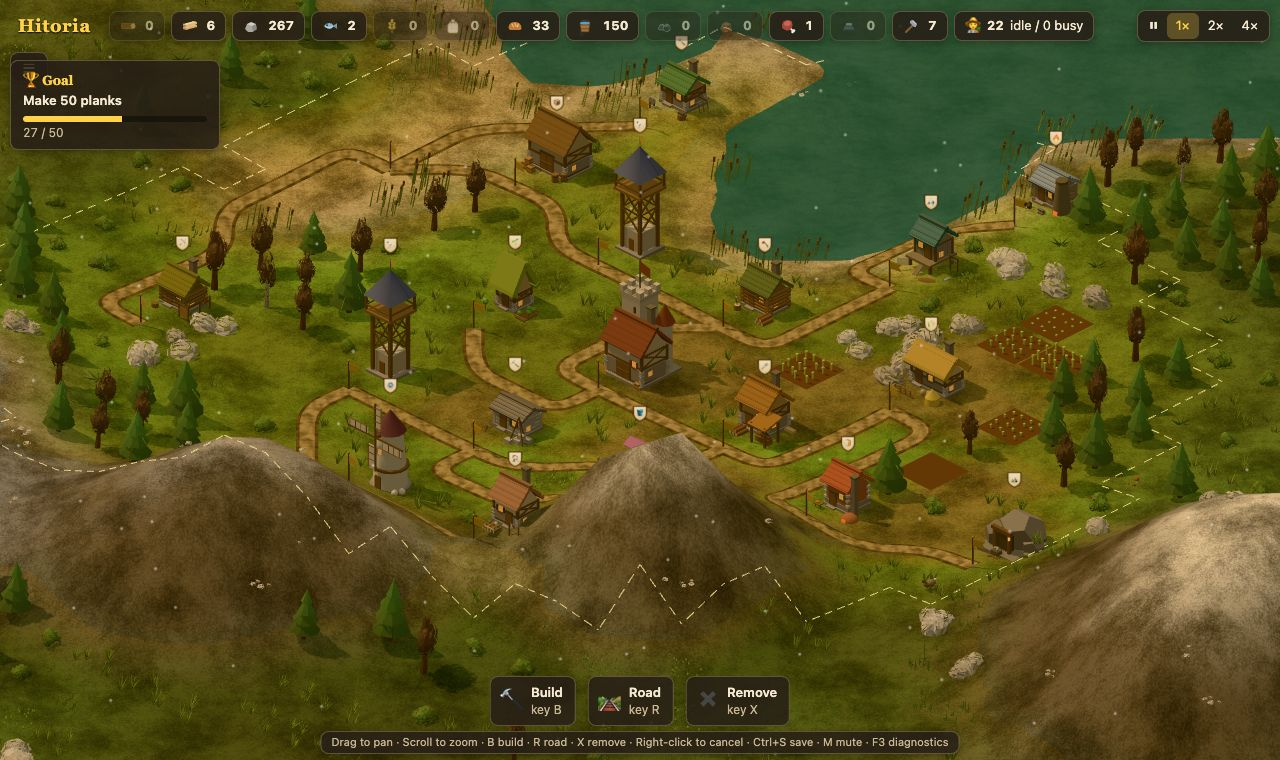
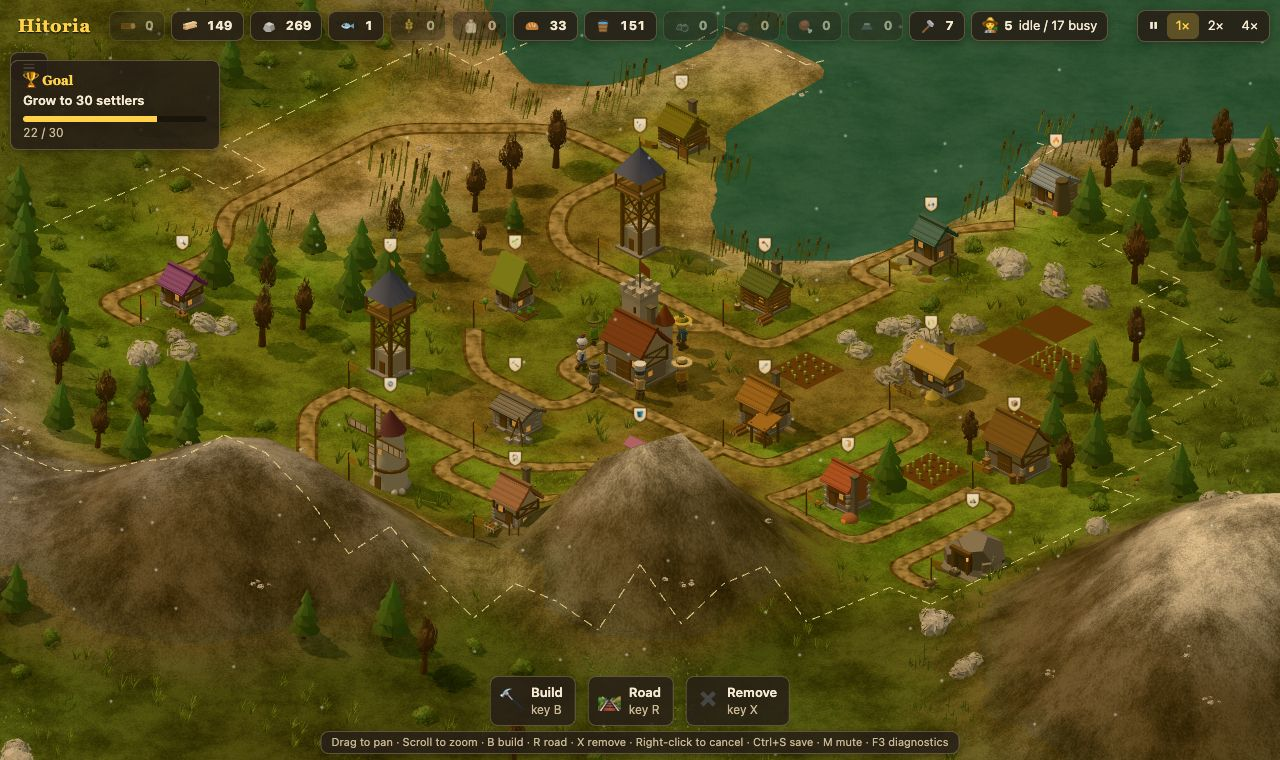
Geologist: rich spots make mines dig twice as fast, and a geologist marks them with signs
Some mountain tiles are now rich spots, laid down from the seed. A mine
next to one digs twice as fast. The new Geologist's Hut goes near a
mountain. Its geologist surveys the mountain tiles within 6 tiles and
puts up a sign on each: gold for a rich spot, pale for plain rock, with
lumps that show stone or coal and iron ore. Signs are saved.

diff --git a/scripts/readme/village.ts b/scripts/readme/village.ts
@@ -9,7 +9,7 @@ export const SEED = 214;
 // widen the land, so the second round has room.
 const ROUNDS: BType[][] = [
   ['woodcutter', 'forester', 'sawmill', 'quarry', 'lookout', 'lookout'],
-  ['fisher', 'farm', 'well', 'mill', 'bakery', 'house', 'storehouse', 'mine', 'hunter', 'smelter', 'toolmaker', 'woodcutter', 'house'],
+  ['fisher', 'farm', 'well', 'mill', 'bakery', 'house', 'storehouse', 'mine', 'geologist', 'hunter', 'smelter', 'toolmaker', 'woodcutter', 'house'],
 ];
 const RADIUS = 9; // how far from the HQ to look for a spot
 const GAP = 2; // free tiles to keep between buildings, so each one is easy to see

diff --git a/README.md b/README.md
@@ -4,7 +4,7 @@ A peaceful 2.5D settlement builder for the browser, inspired by *The Settlers*.
 
 **Play it in your browser:** https://koszcz.github.io/hitoria/
 
-![A village around the HQ keep, beside a bay and below a mountain: huts, a farm with its fields of grain, a windmill, two lookout towers, a hunter's lodge, a smelter, a toolmaker's workshop and a stone mine, all joined by roads. It is early winter, so the first snow falls and the leafy trees are bare. The current goal shows at the top left](docs/screenshot.jpg)
+![A village around the HQ keep, beside a bay and below a mountain: huts, a farm with its fields of grain, a windmill, two lookout towers, a hunter's lodge, a geologist's hut, a smelter, a toolmaker's workshop and a stone mine, all joined by roads. It is early winter, so the first snow falls and the leafy trees are bare. The current goal shows at the top left](docs/screenshot.jpg)
 
 ## How to play
 
@@ -53,6 +53,10 @@ The settle goal is reached when your settlers' ship lands there and they build t
      rust-brown rock with dark seams. A smelter melts their iron ore and coal into iron.
    - Every new worker in a hut needs a tool. The HQ starts with 20 tools. When they run out, a
      toolmaker's workshop makes more from iron and planks. Until then, a new hut waits for a tool.
+   - Some mountain tiles are rich spots. A mine next to a rich spot digs twice as fast. Build a
+     geologist's hut near a mountain, and its geologist puts up a sign on each mountain tile
+     nearby. A gold sign marks a rich spot. The lumps on a sign show what lies below: grey stone,
+     or coal and iron ore. A mine's panel says when it sits next to a rich spot.
    - Across the water from the bay lies a second island. To settle it, build a harbour, click it
      and press **Set sail**. See "Settling the second island" below.
 
@@ -236,9 +240,9 @@ both choices. Browsers block sound until you click or press a key, so the sound 
 | File | What it does |
 | --- | --- |
 | `src/world.ts` | Seeded map generation: island, forests, boulders, mountains, the mountain and bay every start gets, the second island across the bay, and where coal and iron ore lie |
-| `src/game/` | Simulation: buildings, demolishing, roads, worn paths, walking distances, settlers, wild animals, hunting, carriers, farm fields, food, harbours and their docks, the trade ship, homes (the HQ and the harbour settlers build on the second island), the voyage to settle it, the tools new workers take, goals and saving |
+| `src/game/` | Simulation: buildings, demolishing, roads, worn paths, walking distances, settlers, wild animals, hunting, carriers, farm fields, food, harbours and their docks, the trade ship, homes (the HQ and the harbour settlers build on the second island), the voyage to settle it, the tools new workers take, rich spots and the geologist (`geology.ts`), goals and saving |
 | `src/path.ts` | A* pathfinding on the tile grid |
-| `src/render/` | Three.js 3D renderer: terrain, water, buildings, settlers, animals, ships, overlays the light for each time of day (`daylight.ts`), and the season's colours and snow (`seasonal.ts`, `snowfall.ts`). Keeps the isometric camera angle. `looks.ts` gives each building its body shape and colours |
+| `src/render/` | Three.js 3D renderer: terrain, water, buildings, settlers, animals, ships, the geologist's signs (`signs.ts`), overlays, the light for each time of day (`daylight.ts`), and the season's colours and snow (`seasonal.ts`, `snowfall.ts`). Keeps the isometric camera angle. `looks.ts` gives each building its body shape and colours |
 | `src/seasons/` | The year clock, how the island looks at each point in the year, and when grain grows |
 | `src/quality/` | The graphics setting, and Auto, which lowers it when frames are slow |
 | `src/sound/` | Wind and wave sound, how loud each is from what the camera sees, the background tune (`tune.ts` writes the notes, `music.ts` plays them), and the mute and music volume settings |
@@ -258,6 +262,9 @@ both choices. Browsers block sound until you click or press a key, so the sound 
   eats fish, meat or bread.
 - A coal mine and an iron mine dig coal and iron ore out of a mountain in the same way. Only the
   second island's mountain holds coal and iron ore.
+- A mine next to a rich spot digs twice as fast. A geologist surveys the mountains up to 6 tiles
+  from the Geologist's Hut and marks rich spots with gold signs. The mountain by the HQ and the
+  second island's mountain always have one.
 - Iron mine → iron ore, and coal mine → coal → Smelter → iron. The smelter needs 1 iron ore and
   1 coal for each bar of iron.
 - Iron and planks → Toolmaker's Workshop → tools. The toolmaker needs 1 iron and 1 plank for

diff --git a/changelog/entries/2026-11-01-geologist.md b/changelog/entries/2026-11-01-geologist.md
@@ -1,0 +1,30 @@
+---
+title: Geologist
+date: '2026-11-01 12:00'
+before: 4bcd715
+shots:
+  - name: card
+    caption: The Geologist's Hut in the build menu.
+    steps:
+      - key: b
+      - hover: '#buildmenu .tile[data-type="geologist"]'
+      - wait: 500
+---
+Some mountain tiles are now rich spots. A mine next to a rich spot digs twice as fast, so it
+pays to choose where you put your mines.
+
+You can now build a Geologist's Hut near a mountain. You find it with the mines, under "Stone and
+ore" in the build menu. Its geologist walks to the mountain tiles within 6 tiles of the hut and
+puts up a sign on each one:
+
+- A gold sign with a gold knob on top marks a rich spot.
+- A pale sign marks plain rock.
+- The lumps on the sign show what lies below: a grey stone for stone, or a black lump of coal and
+  a red lump of iron ore.
+
+When the geologist finds a new patch of rich ground, a message tells you. When you place a mine
+next to a rich spot, a message tells you too, and the mine's panel says it digs twice as fast.
+Rich spots work even where no geologist has looked yet.
+
+Every island has a rich spot on the mountain by the HQ and on the ore mountain of the other
+island. Saves from before this change keep working, and get rich spots too.
